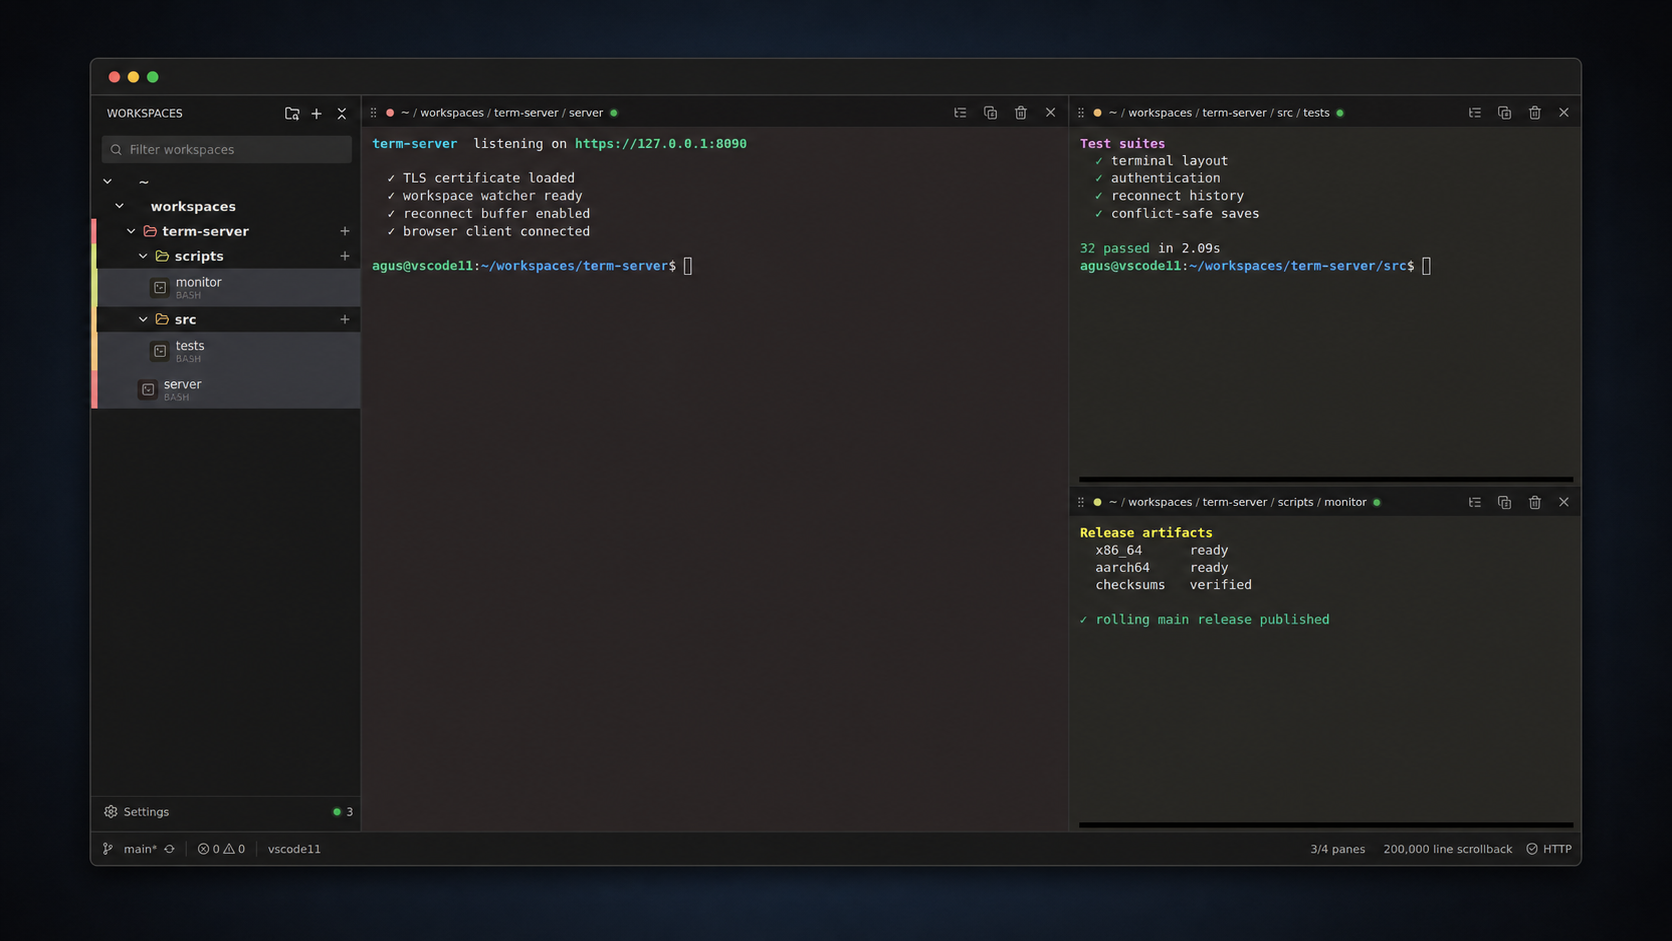
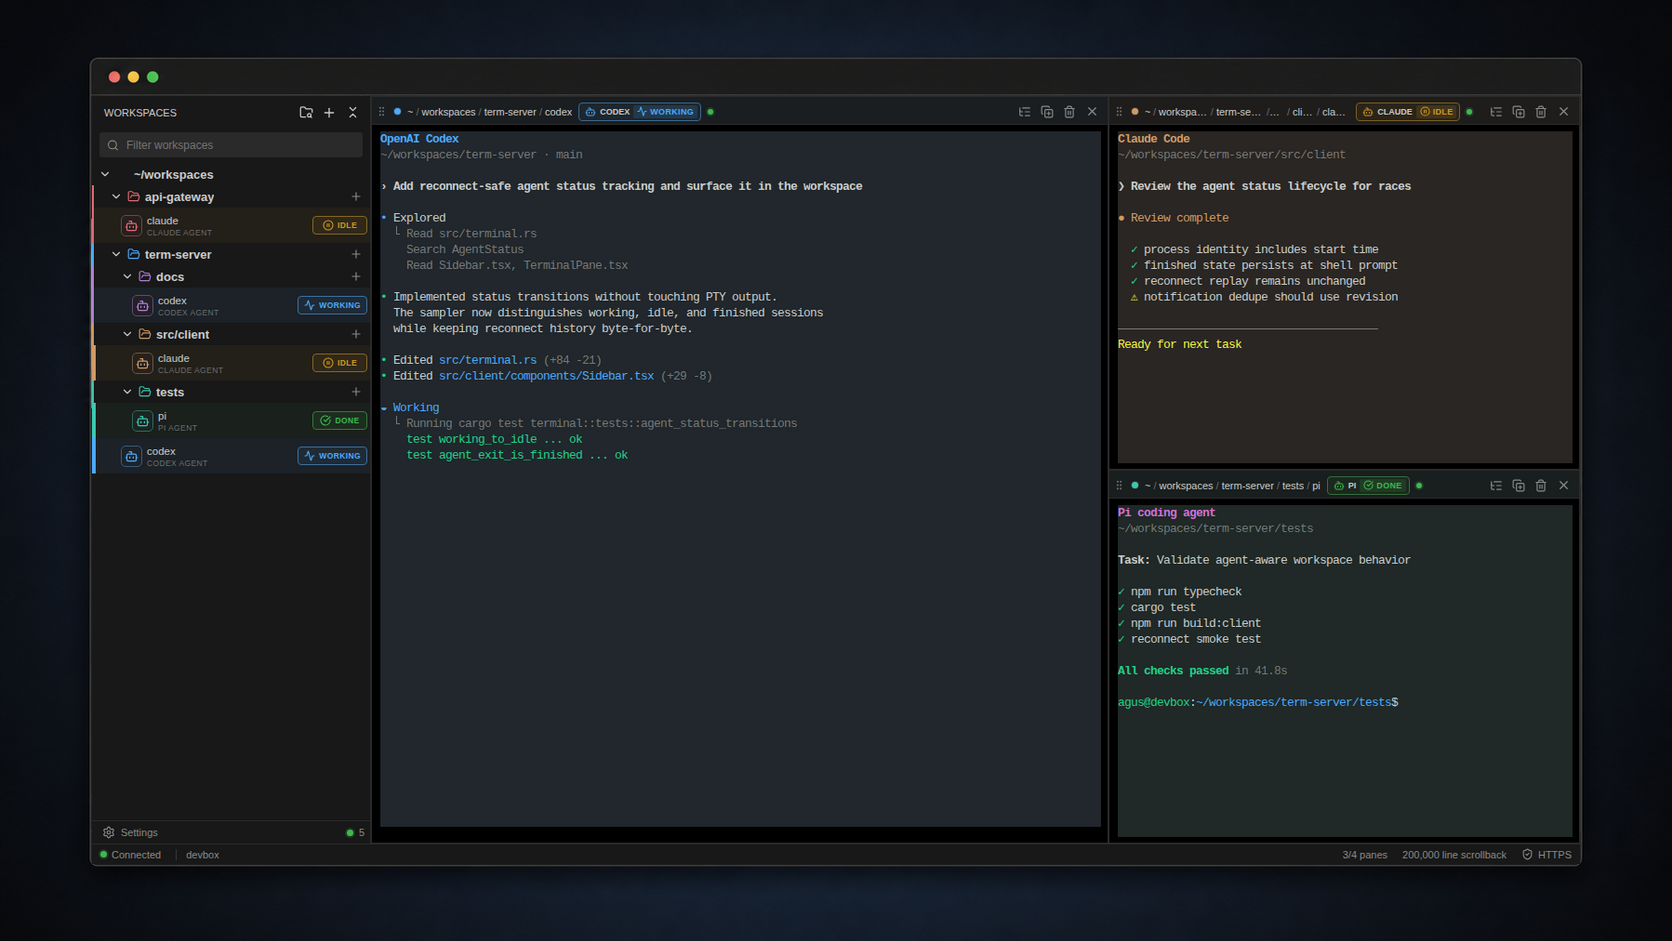
Show coding agents in README hero

Changed region(s): [[0.0311, 0.0925, 0.9641, 0.9245], [0.0622, 0.8629, 0.1866, 0.9245]]

diff --git a/README.md b/README.md
@@ -10,7 +10,7 @@
   </p>
 </div>
 
-![term-server workspace with three live terminal panes](docs/screenshots/hero.png)
+![term-server workspace with Codex, Claude, and Pi sessions in working, idle, and done states](docs/screenshots/hero.png)
 
 term-server is a small Rust daemon that keeps native PTYs alive and makes them available through a focused web interface. Terminals automatically follow their live working directories, so the sidebar becomes a workspace tree without any manual project setup. Split panes, reconnect history, a lightweight file editor, and a Linux process inspector are available when you need them; the product still feels like a terminal, not a browser IDE.
 